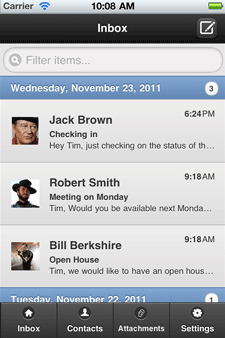
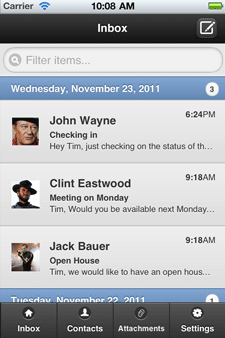
touched up screens, added indv convo

diff --git a/index.html b/index.html
@@ -36,10 +36,10 @@
 				<ul id="slides">
 					<li><img src="images/screens/SocialCRM.png" alt="Account screen" border="0" /></li>
 					<li><img src="images/screens/inbox.png" alt="Account screen" border="0" /></li>
-					<li><img src="images/screens/contact.png" alt="Account screen" border="0" /></li>
 					<li><img src="images/screens/contacts.png" alt="Account screen" border="0" /></li>
+					<li><img src="images/screens/contact.png" alt="Account screen" border="0" /></li>
 					<li><img src="images/screens/compose.png" alt="Account screen" border="0" /></li>
-					<li><img src="images/screens/ps.png" alt="Account screen" border="0" /></li>
+					<li><img src="images/screens/conversation.png" alt="Account screen" border="0" /></li>
 				</ul><!-- end slides -->
                 
                 
